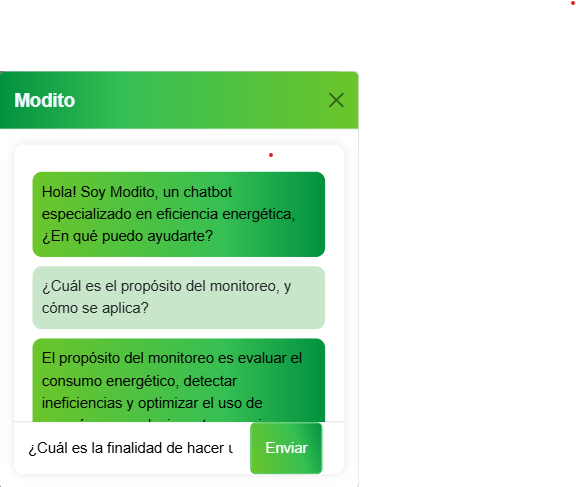
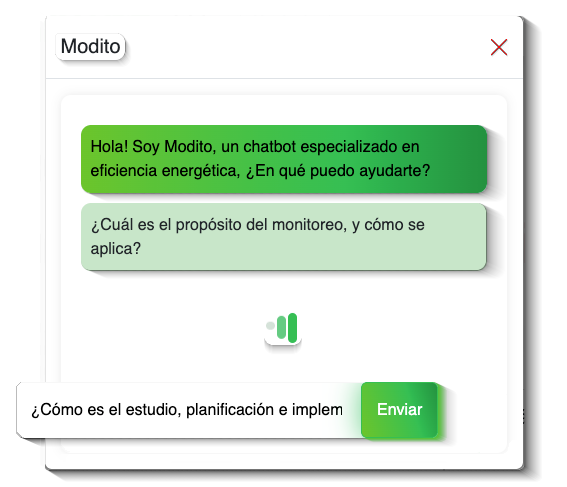
Fondo degradado y modito en la pagina principal

diff --git a/index.html b/index.html
@@ -52,6 +52,9 @@
             <a class="nav-link active" href="#home">Inicio</a>
           </li>
           <li class="nav-item">
+            <a class="nav-link" href="#chatbot">Chatbot</a>
+          </li>
+          <li class="nav-item">
             <a class="nav-link" href="#beneficios">Beneficios</a>
           </li>
           <li class="nav-item">
@@ -59,9 +62,6 @@
           </li>
           <li class="nav-item">
             <a class="btn btn-outline-secondary" href="#contacto">Contacto</a>
-          </li>
-          <li class="nav-item">
-            <a class="nav-link" href="modito.html">Chatbot</a>
           </li>
         </ul>
       </div>
@@ -71,20 +71,19 @@
 
   <!-- header modito  -->
   <!-- Scrollspy -->
-  <div data-bs-spy="scroll" data-bs-target="#navbar" data-bs-offset="100" data-bs-smooth-scroll="true" tabindex="0">
+  <div data-bs-spy="scroll" data-bs-target="#navbar" data-bs-offset="-50" data-bs-smooth-scroll="true" tabindex="0">
 
     <!--  Inicio -->
-    <div id="home">
+    <section id="home">
       <div class="container">
         <div class="container-fluid">
           <div class="row">
-            <div class="col-sm-14 col-md-7 col-lg-7">
+            <div class="col-sm-12 col-md-7 col-lg-7">
               <div class="titulo-home">
                 <h1><strong>Optimizá el consumo energético de <div class="texto-degradado">tu hogar, comercio o empresa.
                     </div></strong></h1>
                 <p> Nuestro enfoque innovador, combinado con la ayuda de un bot entrenado para la transición energética
                   te permitirá elegir la mejor opción que se adapte a tus necesidades y presupuesto.</p>
-                <a href="modito.html" id="sendButton">Chatear con Modito</a>
               </div>
             </div>
             <div class="col-sm-12 col-md-5 col-lg-5 align-self-center">
@@ -93,11 +92,111 @@
           </div>
         </div>
       </div>
-    </div>
+    </section>
     <!-- end Inicio -->
 
+    <!-- Seccion Modito -->
+<section id="chatbot" class="chatbot">
+  <div class="header-content">
+      <div class="container" >
+          <div class="row">
+              <div class="col-12">
+                  <div class="row">
+                      <div class="col-lg-12">
+                          <div class="text-container">
+                              <h1><div class="texto-degradado"> Hola, soy Modito. <br>
+                                   Un chatbot de Transición Energética </div> </h1>
+                          </div> <!-- end of text-container -->
+                      </div> <!-- end of col -->                            
+                  </div> <!-- end of row -->
+                  <div class="row">
+                      <div class="col-lg-8">
+                          <h3>Consulte acerca de alguna de las dudas frecuentes o formule una nueva pregunta para conocer más sobre nuestros servicios de transición energética.</h3>
+                                                        
+                      </div>
+                  </div>
+                  <div class="row row-cols-1 row-cols-md-2 row-cols-xl-4">
+                      <!-- <div class="option col-12 col-xs-12 col-sm-12 col-md-6 col-lg-4 col-xl-3"> -->
+                        <div class="card text-center" data-bs-toggle="modal" data-bs-target="#moditoModal" data-bs-question="¿Cuál es la finalidad de hacer una gestoría energética?">
+                          <div class="card-body">
+                            <h5 class="card-title">¿Cuál es la finalidad de hacer una gestoría energética?</h5>
+                          </div>
+                        </div>
+                        
+                      <!-- </div> -->
+                      <!-- <div class="option col-12 col-xs-12 col-sm-12 col-md-6 col-lg-4 col-xl-3"> -->
+                        
+                        <div class="card text-center" data-bs-toggle="modal" data-bs-target="#moditoModal" data-bs-question="¿Cuáles son los beneficios que aporta reducir el consumo energético?">
+                          <div class="card-body">
+                            <h5 class="card-title">¿Cuáles son los beneficios que aporta reducir el consumo energético?</h5>
+                          </div>
+                        </div>
+                        
+                      <!-- </div> -->
+                      <!-- <div class="option col-12 col-xs-12 col-sm-12 col-md-6 col-lg-4 col-xl-3"> -->
+                        
+                        <div class="card text-center" data-bs-toggle="modal" data-bs-target="#moditoModal" data-bs-question="¿Cómo es el estudio, planificación e implementación de una gestoría energética?">
+                          <div class="card-body">
+                            <h5 class="card-title">¿Cómo es el estudio, planificación e implementación de una gestoría energética?</h5>
+                          </div>
+                        </div>
+                      <!-- </div> -->
+                      <!-- <div class="option col-xs-12 col-sm-12 col-md-6 col-lg-4 col-xl-3"> -->
+                        <div class="card text-center" data-bs-toggle="modal" data-bs-target="#moditoModal" data-bs-question="¿Cuál es el propósito del monitoreo, y cómo se aplica?">
+                          <div class="card-body">
+                            <h5 class="card-title">¿Cuál es el propósito del monitoreo, y cómo se aplica?</h5>
+                          </div>
+                        </div>
+                          
+                      <!-- </div> -->
+                  </div>
+                  <div class="input-group mb-3">
+                    <input type="text" id="chatQuestion" name="chatQuestion" class="form-control" placeholder="Escriba su consulta..." aria-label="mensaje para el Chatbot" aria-describedby="chatButton">
+                    <button id="chatButton" data-bs-toggle="modal" data-bs-target="#moditoModal" class="btn btn-outline-success" type="button">Enviar</button>
+                  </div>
+              </div>
+              
+          </div>
+      </div> <!-- end of container -->
+  </div> <!-- end of header-content -->
+</section> <!-- end of section -->
+<!-- end of header -->
+
+<!-- Modal del chatbot -->
+<div class="modal fade modal-xl" id="moditoModal" tabindex="-1" role="dialog" aria-labelledby="Modal del chatbot Modito" aria-hidden="true">
+  <div class="modal-dialog modal-dialog-scrollable" role="document">
+    <div class="modal-content">
+      <div class="modal-header">
+        <h5 class="modal-title" id="exampleModalLabel">Modito</h5> 
+        <button type="button" class="btn-close" data-bs-dismiss="modal" aria-label="Close"></button>
+      </div>
+      <div class="modal-body">
+          <div class="chat-container">
+              <div id="chatbox" class="chatbox">
+                  <div class="message bot">Hola! Soy Modito, un chatbot especializado en eficiencia energética, ¿En qué puedo ayudarte?</div>
+              </div>
+              <div id="loader">
+                  <span></span>
+                  <span></span>
+                  <span></span>
+              </div>
+              <div id="inputfield" class="inputfield">
+                  <input id="userInput" type="text" placeholder="Escribe un mensaje...">
+                  <button id="sendButton">
+                      Enviar
+                  </button>
+              </div>
+          </div>
+      </div>
+    </div>
+  </div>
+</div> <!-- end of Modal del chatbot -->
+
+<!-- end header modito -->
+
+
     <!-- Presentación beneficios -->
-    <div id="beneficios">
+    <section id="beneficios">
       <div class="container">
         <div class="text-center">
           <h2>Conocé los beneficios <br> de un diagnóstico energético</h2>
@@ -185,7 +284,7 @@
 
       </div>
 
-    </div>
+    </section>
     <!-- end  beneficios-->
 
     <!-- Fases-Diagnóstico -->
@@ -255,12 +354,17 @@
 
     <!-- end Fases -->
 
-    <!-- modito-->
-
-
-
-    <!-- fin modito -->
-
+    <!-- Quienes Somos -->
+    <section id="quienes-somos">
+      <div class="container">
+          <h1 class="quienes-h1">Quiénes Somos</h1>
+          <p>Somos un grupo de jóvenes emprendedores impulsados por la energía del cambio y la firme convicción de que podemos marcar la diferencia.
+          Con una sólida formación, y trabajando en conjunto con un especialistas en ingeniería y arquitectura, hemos creado <strong>Modo Ahorro</strong>, una empresa profundamente comprometida con la sostenibilidad y dedicada a optimizar el consumo energético de hogares, comercios y empresas.
+          En un mundo donde la eficiencia energética se ha vuelto indispensable, nuestro propósito es ayudar a nuestros clientes a reducir costos y minimizar su huella de carbono.
+          Nuestra propuesta ha sido reconocida y beneficiada en el marco del <strong>Programa de Asistencia para la Innovación Productiva otorgado por la Agencia Calidad San Juan</strong>, lo que nos ha brindado el apoyo necesario para poder convertir nuestro proyecto en realidad.
+          </p>
+      </div>
+    </section>
 
 
     <!-- Contacto -->
@@ -341,39 +445,6 @@
     </section>
     <!-- end Contacto -->
 
-    <!DOCTYPE html>
-    <html lang="es">
-    <head>
-        <meta charset="UTF-8">
-        <meta name="viewport" content="width=device-width, initial-scale=1.0">
-        <title>Quiénes Somos</title>
-        <link rel="stylesheet" href="styles.css">
-    </head>
-    <body>
-        <section id="quienes-somos">
-            <div class="container">
-                <h1 class="quienes-h1">Quiénes Somos</h1>
-                Somos un grupo de jóvenes emprendedore impulsados por la energía del cambio y la convicción de que podemos marcar la diferencia,
-                Con una sólida formación, y tambien en conjunto con un profesionales en ingeniería y arquitectura unido a un profundo compromiso con la sostenibilidad, hemos creado <strong>Modo Ahorro</strong>, una empresa dedicada a optimizar el consumo energético de hogares, comercios y empresas.
-                En un mundo donde la eficiencia energética es clave, nuestro objetivo es ayudar a nuestros clientes a reducir costos y minimizar su huella de carbono.
-                Nuestra idea ha sido premiada por el <strong>ANR de la provincia de San Juan</strong>, brindándonos el respaldo necesario para hacer realidad nuestro proyecto.</p>
-  
-                
-                <div class="mision">
-                    <h2 class="quienes-h1">Nuestra Misión</h2>
-                    <ul>
-                        <li>Optimizar costos y reducir el gasto energético.</li>
-                        <li>Cuidar el planeta con soluciones sostenibles.</li>
-                        <li>Garantizar un futuro responsable para nuevas generaciones.</li>
-                    </ul>
-                </div>
-            </div>
-        </section>
-    </body>
-    </html>
-
-
-
     <footer id="footer-down">
       <ul class="social-icon">
         <li class="instagram hvr-pulse">
@@ -387,8 +458,9 @@
           </a>
         </li>
       </ul>
-      <p class="footer-text"> &copy; Copyright 2025 Modo Ahorro - Creado por: <a href=""
-          target="_blank">GrupoXamanen</a> </p>
+      <p class="footer-text"> &copy; Copyright 2025 Modo Ahorro  </p> 
+      <!-- - Creado por: <a href=""
+          target="_blank">GrupoXamanen</a> -->
     </footer>
   </div> <!-- End of Scrollspy -->
 
@@ -397,6 +469,8 @@
     integrity="sha384-YvpcrYf0tY3lHB60NNkmXc5s9fDVZLESaAA55NDzOxhy9GkcIdslK1eN7N6jIeHz"
     crossorigin="anonymous"></script>
   <script src="js/script.js"></script> <!-- Custom scripts -->
+  <script src="https://js.puter.com/v2/"></script>
+  <script src="js/chatbot.js"></script>
 
 
 </body>

diff --git a/style.css b/style.css
@@ -9,7 +9,8 @@
     --naranja: #FF850E;
     --rojo: #FF1222;
     --bordo: #B51A15;
-    --negro: #080e0be8 --black: hsl(0, 0%, 0%);
+    --negro: #080e0be8 
+    --black: hsl(0, 0%, 0%);
     --white: hsl(0, 0%, 100%);
     /* Fonts */
     --font-title: "Montserrat", sans-serif;
@@ -24,6 +25,8 @@ body {
     font-family: "Inter-Medium", sans-serif;
     /* background: rgb(255,255,255);
     background: linear-gradient(292deg, rgba(255,255,255,1) 0%, rgba(54,191,83,1) 31%, rgba(255,255,255,1) 62%); */
+    
+    background: linear-gradient(292deg, rgba(255,255,255,1) 0%, rgba(54,191,83,1) 50%, rgba(255,255,255,1) 100%);
 }
 
 
@@ -34,6 +37,8 @@ body {
     justify-content: center;
     align-items: center;
     position: fixed;
+    top: 0;
+    left: 0;
     background-color: #fff;
     width: 100vw;
     height: 100vh;
@@ -156,12 +161,12 @@ body {
 
 /* Home */
 #home .titulo-home {
-    margin: 18rem 4rem 4rem 4rem;
+    margin: 10rem 4rem 4rem 4rem;
 }
 
 #home .row {
-    margin-top: 12rem;
-    margin-bottom: 16rem;
+    margin-top: 0;
+    margin-bottom: 3rem;
 }
 
 #moditoimg {
@@ -170,12 +175,18 @@ body {
     height: auto;
 }
 
+.chatbot {
+    background-color: #fff;
+}
+
+#chatbot, #beneficios, #fases-diagnostico, #quienes-somos, #contacto {
+    padding-top: 5rem;
+}
 
 /* presentacion-beneficios */
 
 
 #beneficios {
-    padding-top: 0.5rem;
     padding-bottom: 7rem;
 }
 
@@ -296,12 +307,10 @@ body {
     }
 
     #fases-diagnostico {
-        padding-top: 2rem;
         padding-bottom: 10rem;
     }
 
     #contacto {
-        padding-top: 10rem;
         padding-bottom: 2rem;
     }
 
@@ -309,12 +318,19 @@ body {
         width: 80%;
         margin: auto;
         text-align: center;
-        padding: 50px 20px;
+        padding-bottom: 50px;
+        padding-left: 20px;
+        padding-right: 20px;
     }
 
     #quienes-somos ul {
         list-style: none;
         padding: 0;
+        margin-top: 10px;
+    }
+
+    #quienes-somos ul li {
+        margin-top: 10px;
     }
     
     .quienes-h1 {
@@ -581,7 +597,7 @@ background: var(--verdeModoAhorro); */
     }
 }
 
-*/ .titulo-home {
+.titulo-home {
     padding-bottom: 30px;
     /* Más espacio debajo del texto */
 }
@@ -695,8 +711,19 @@ background: var(--verdeModoAhorro); */
     ;
     background-clip: text;
     --webkit-background-clip: text;
-    color: transparent;
+    /* color: transparent; */
 
+}
+
+@media (prefers-color-scheme: dark) {
+    .texto-degradado {
+        box-sizing: unset;
+        background: linear-gradient(265deg, #000 20%, var(--rojo) 50%, var(--naranja) 55%, var(--amarilloDos) 60%, var(--verdeModoAhorro) 75%, #000 90%) 0% 0% no-repeat padding-box;
+        ;
+        background-clip: text;
+        --webkit-background-clip: text;
+        color: transparent;
+    }
 }
 
 .card-options-1 h4 {
@@ -964,7 +991,6 @@ background: var(--verdeModoAhorro); */
 
 #footer-down {
     position: relative;
-    top: 30px;
     text-align: center;
 }
 
